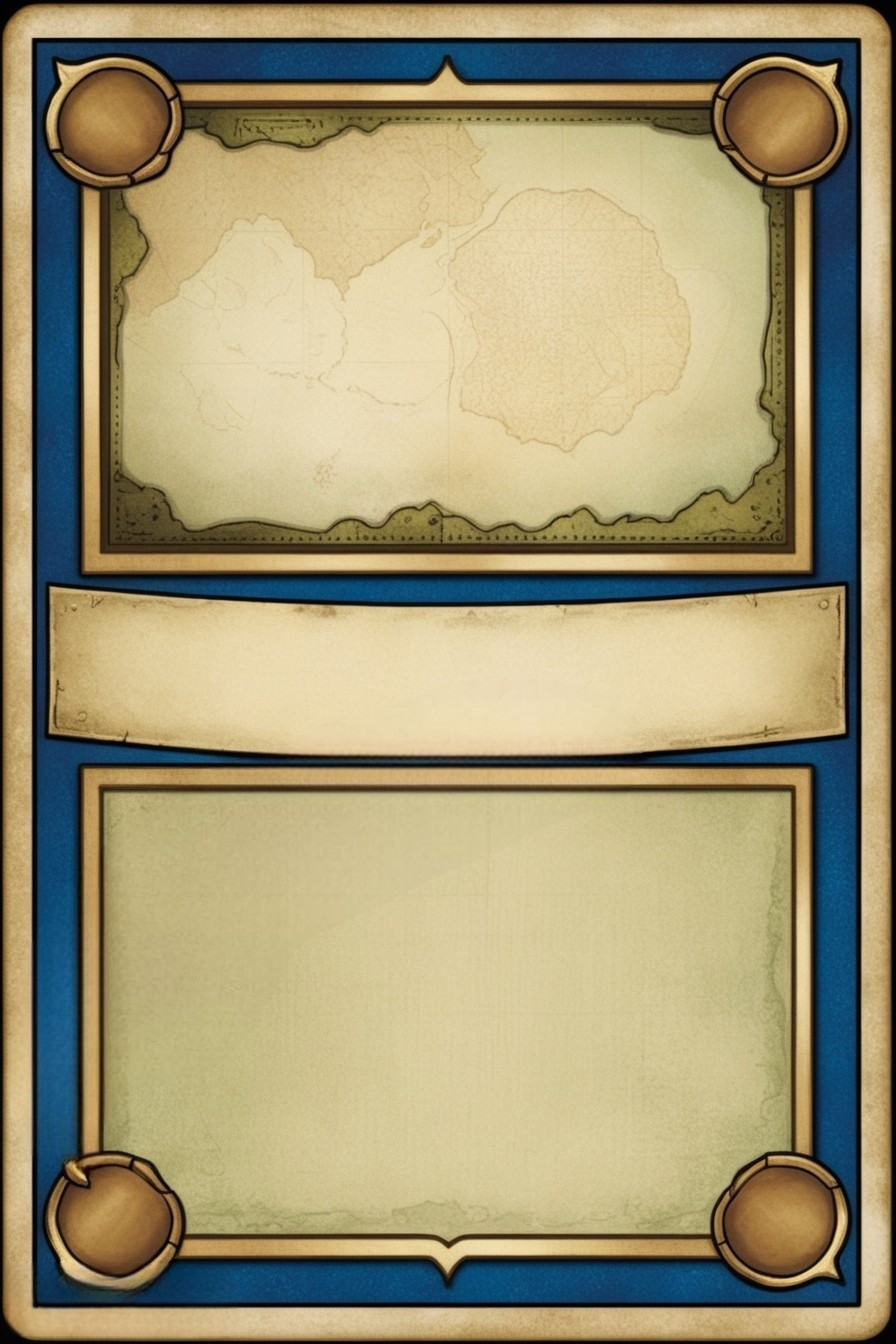
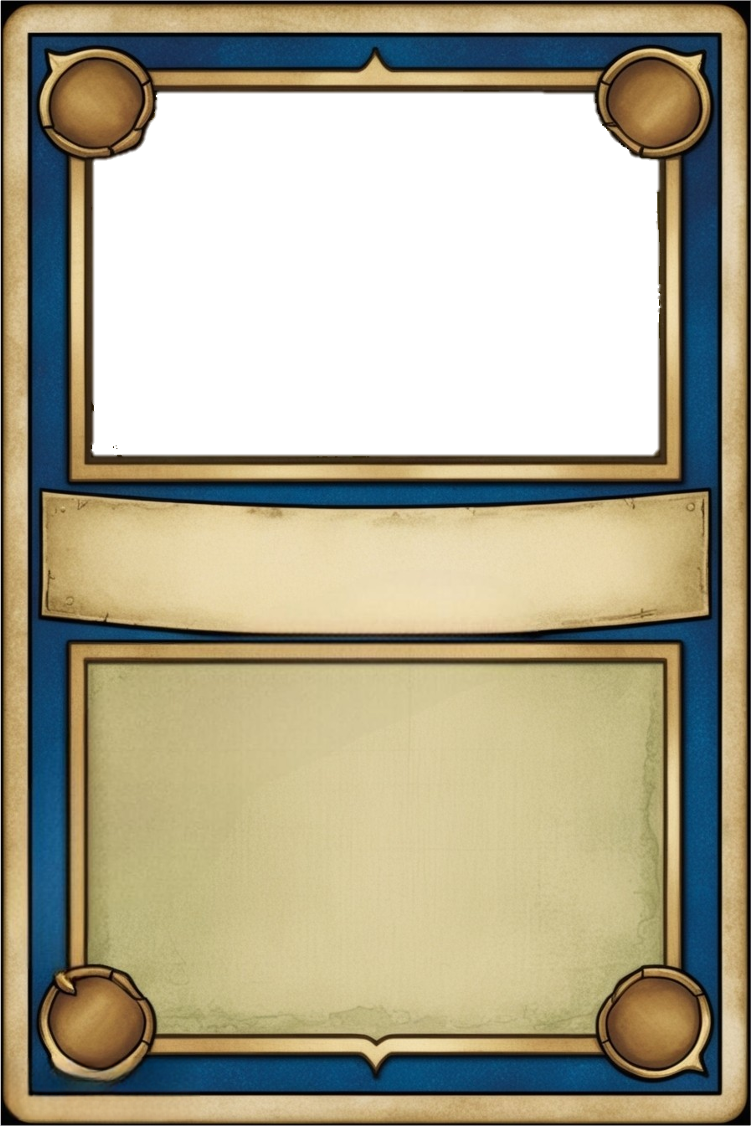
UPDATE: Remove flag bg

Changed region(s): [[0.0, 0.0, 1.0, 1.0], [0.3364, 0.5901, 0.9176, 0.9317], [0.0918, 0.5901, 0.2753, 0.9317]]

diff --git a/src/components/CountryCard.js b/src/components/CountryCard.js
@@ -37,22 +37,31 @@ function CountryCard({ order, className }) {
         ></div>
         {/* Card Front */}
         <div
-          className="absolute top-0 right-0 w-full h-full bg-contain
-            bg-[url('/images/card/country_card_front.png')] [backface-visibility:hidden;]
+          className="absolute top-0 right-0 w-full h-full [backface-visibility:hidden;]
             [transform:rotate3d(0,1,0,180deg);]"
           onClick={() => setIsCardOpen(false)}
         >
+          {/* Country flag */}
           <img
             src={COUNTRY_MAP[order].image}
             alt=""
-            className="relative top-[2.1rem] w-[75%] h-auto mx-auto rounded-md"
+            className="relative top-[1.7rem] w-[90%] h-auto mx-auto rounded-md"
           />
-          <div className="relative top-[3.8rem] mx-auto text-center">
+          {/* Card frame */}
+          <img
+            src="/images/card/country_card_front.png"
+            alt=""
+            className="absolute top-0 right-0 w-full h-full"
+          />
+          <div className="absolute top-[46.5%] w-full text-center">
             <p className="text-primary font-bold text-2xl">
               {COUNTRY_MAP[order].name}
             </p>
           </div>
-          <div className="relative top-[7rem] mx-auto text-center">
+          <div
+            className="absolute right-1/2 bottom-[1.5rem] translate-x-1/2 w-[80%] h-[35%] flex
+              items-center justify-center"
+          >
             <p className="text-primary font-bold text-xl">
               費用: {COUNTRY_MAP[order].cost}
             </p>
